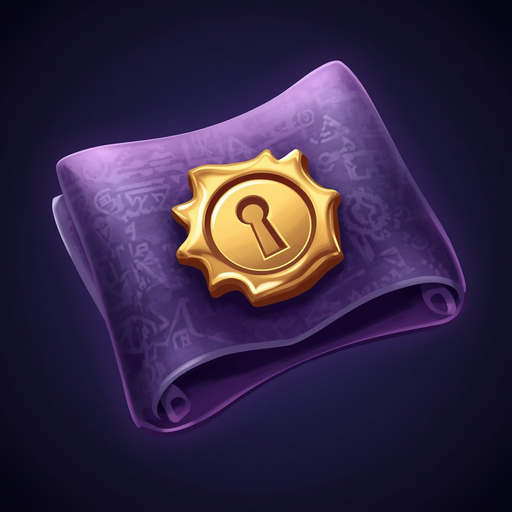
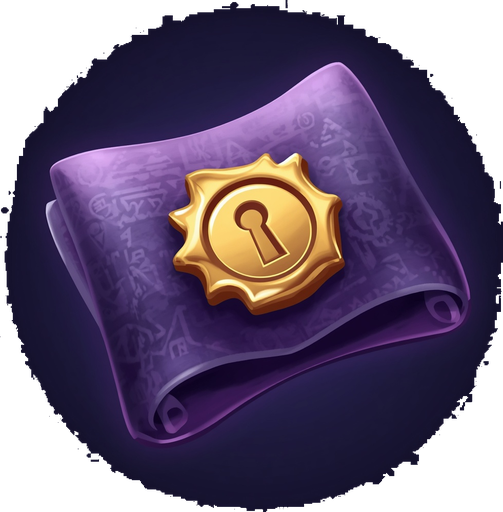
polish(nft): transparent art, rarity mapping

diff --git a/css/components/modals.css b/css/components/modals.css
@@ -317,7 +317,7 @@ html[data-device="phone"] #toasts{bottom:calc(88px + env(safe-area-inset-bottom)
 .relic-chip{
   display:inline-flex;align-items:center;gap:5px;height:30px;padding:0 10px;
   border-radius:var(--r-full);border:1px solid var(--line-2);background:var(--surface-2);
-  color:var(--tx2);font-size:12px;font-weight:600;font-variant-numeric:tabular-nums;
+  color:var(--tx-2);font-size:12px;font-weight:600;font-variant-numeric:tabular-nums;
 }
 .relic-chip:hover{background:var(--surface-3);color:var(--tx)}
 .relic-chip .rc-ic{width:16px;height:16px;display:block;filter:drop-shadow(0 1px 2px rgba(0,0,0,.4))}
@@ -325,9 +325,9 @@ html[data-device="phone"] #toasts{bottom:calc(88px + env(safe-area-inset-bottom)
 .relic-scroll{width:132px;height:auto;filter:drop-shadow(0 10px 24px rgba(0,0,0,.45));margin-bottom:2px}
 .relic-big{font-size:40px;font-weight:800;letter-spacing:-.03em;
   background:linear-gradient(135deg,#f3d27a,#e0a23c);-webkit-background-clip:text;background-clip:text;color:transparent}
-.relic-cap{font-size:12px;color:var(--tx3)}
+.relic-cap{font-size:12px;color:var(--tx-3)}
 .relic-history{display:grid;gap:6px;margin-top:12px}
-.relic-row{display:flex;justify-content:space-between;gap:10px;font-size:12.5px;color:var(--tx2);
+.relic-row{display:flex;justify-content:space-between;gap:10px;font-size:12.5px;color:var(--tx-2);
   border-top:1px solid var(--line);padding-top:6px}
 .relic-row b{color:var(--tx)}
 .relic-row .plus{color:var(--ok)}
@@ -456,15 +456,15 @@ html[data-device="phone"] .recover-bar .rb-btn{flex:1}
 /* Коллекция (NFT за Relics) */
 .nft-modal{max-width:720px}
 .nft-tabs{display:flex;gap:6px;margin-bottom:10px}
-.nft-tab{font:inherit;font-size:13px;color:var(--tx2);background:transparent;border:1px solid var(--line2);border-radius:10px;padding:7px 13px;cursor:pointer}
+.nft-tab{font:inherit;font-size:13px;color:var(--tx-2);background:transparent;border:1px solid var(--line-2);border-radius:10px;padding:7px 13px;cursor:pointer}
 .nft-tab.on{color:var(--tx);background:var(--surface-3);border-color:rgba(91,108,249,.45)}
-.nft-balance{display:flex;align-items:center;gap:6px;font-size:12.5px;color:var(--tx3);margin-bottom:12px}
+.nft-balance{display:flex;align-items:center;gap:6px;font-size:12.5px;color:var(--tx-3);margin-bottom:12px}
 .nft-balance img{width:16px;height:16px}
 .nft-grid{display:grid;grid-template-columns:repeat(auto-fill,minmax(150px,1fr));gap:10px}
 .nft-card{background:var(--surface-2);border:1px solid var(--line);border-radius:16px;padding:10px;display:grid;gap:6px;text-align:center}
 .nft-art{width:100%;height:118px;object-fit:contain;filter:drop-shadow(0 8px 18px rgba(0,0,0,.45))}
 .nft-name{font-size:12.5px;font-weight:600;line-height:1.3}
-.nft-sub{font-size:11px;color:var(--tx3)}
+.nft-sub{font-size:11px;color:var(--tx-3)}
 .nft-rarity{font-size:10px;font-weight:700;text-transform:uppercase;letter-spacing:.05em;padding:2px 7px;border-radius:99px;justify-self:center}
 .nft-rarity.common{color:#9fb0c9;background:rgba(159,176,201,.14)}
 .nft-rarity.rare{color:#7fb2ff;background:rgba(127,178,255,.15)}

diff --git a/js/ui/palette.js b/js/ui/palette.js
@@ -8,7 +8,7 @@ import { t } from '../i18n/i18n.js';
 import { THEMES, applyTheme, currentTheme } from './themes.js';
 import { isPinned, isMuted, togglePinned, toggleMuted } from './prefs.js';
 import { toast } from './toast.js';
-import { openNewChat, openGroupCreator, openSettings, openGlobalSearch } from './modals.js';
+import { openNewChat, openGroupCreator, openSettings, openGlobalSearch, openNft } from './modals.js';
 import { renderSidebar } from './sidebar.js';
 import { hideUser } from '../backend/blocks.js';
 import { lockNow, hasPin } from './pin.js';
@@ -101,6 +101,7 @@ function actionList(termRaw = '') {
         setTimeout(() => $('#storageField')?.scrollIntoView({ block: 'center', behavior: 'smooth' }), 120);
       },
     },
+    { id: 'nft', icon: 'gift', label: t('nft.title'), run: () => openNft() },
     {
       id: 'export',
       icon: 'dl',
@@ -462,9 +463,11 @@ export function initPalette() {
   }
   const searchOpen = $('#searchOpenPalette');
   if (searchOpen) {
-    searchOpen.title = t('palette.searchAll');
-    searchOpen.setAttribute('aria-label', t('palette.searchAll'));
+    searchOpen.title = t('palette.title');
+    searchOpen.setAttribute('aria-label', t('palette.title'));
   }
+  const dialog = $('.palette');
+  if (dialog) dialog.setAttribute('aria-label', t('palette.title'));
   document.addEventListener('click', (e) => {
     if (!e.target.closest('[data-open-palette]')) return;
     e.preventDefault();
@@ -502,9 +505,11 @@ export function initPalette() {
   document.addEventListener('relik:lang', () => {
     const so = $('#searchOpenPalette');
     if (so) {
-      so.title = t('palette.searchAll');
-      so.setAttribute('aria-label', t('palette.searchAll'));
+      so.title = t('palette.title');
+      so.setAttribute('aria-label', t('palette.title'));
     }
+    const dialog = $('.palette');
+    if (dialog) dialog.setAttribute('aria-label', t('palette.title'));
     if (!isOpen) return;
     const h = $('#paletteHint');
     if (h) h.innerHTML = `${icon('keyboard', 13)}<span>${esc(t('palette.footer'))}</span>`;

diff --git a/js/ui/modals.js b/js/ui/modals.js
@@ -71,7 +71,7 @@ export function initModals() {
       closeOv($('#groupOv')); closeOv($('#readOv'));
       closeOv($('#peopleOv')); closeOv($('#reqOv')); closeOv($('#gsOv'));
       closeOv($('#relicsOv')); closeOv($('#giftOv'));
-      closeOv($('#mediaOv')); closeOv($('#scheduleOv')); closeOv($('#fwdOv')); closeOv($('#circleOv'));
+      closeOv($('#mediaOv')); closeOv($('#scheduleOv')); closeOv($('#fwdOv'));
     }
   });
   document.addEventListener('keydown', (e) => {

diff --git a/js/i18n/ru.js b/js/i18n/ru.js
@@ -600,6 +600,7 @@ export default {
   'call.screenNoAudio': 'Системный звук не передаётся — включите «Поделиться звуком» при выборе экрана',
 
   /* Командная палитра */
+  'palette.title': 'Командная палитра',
   'palette.ph': 'Чат, действие или сообщение…',
   'palette.recent': 'Недавние чаты',
   'palette.chatsFound': 'Чаты',

diff --git a/js/i18n/en.js b/js/i18n/en.js
@@ -600,6 +600,7 @@ export default {
   'call.screenNoAudio': 'System audio was not shared — tick “Share audio” when picking a screen',
 
   /* Command palette */
+  'palette.title': 'Command palette',
   'palette.ph': 'Chat, action or message…',
   'palette.recent': 'Recent chats',
   'palette.chatsFound': 'Chats',

diff --git a/sw.js b/sw.js
@@ -1,5 +1,5 @@
 /* Relik — service worker: офлайн-оболочка PWA */
-const VER = 'relik-v1.13.0';
+const VER = 'relik-v1.13.1';
 const ASSETS = [
   './', './index.html', './legal.html', './welcome.html', './version.json', './manifest.json',
   './css/tokens.css', './css/base.css', './css/layout.css',

diff --git a/js/config.js b/js/config.js
@@ -2,7 +2,7 @@
 
 export const APP = {
   name: 'Relik',
-  version: '1.13.0',
+  version: '1.13.1',
   phase: 'E2E Encrypted Messenger',
 };
 

diff --git a/README.md b/README.md
@@ -3,9 +3,9 @@
 > Приватный мессенджер, которому можно доверять.
 > HTML + CSS Grid + Vanilla JS · E2E-шифрование · бесплатный бэкенд (Supabase)
 >
-> **v1.11.0:** пересылка одного сообщения сразу в несколько чатов (выбор галочками); галерея медиа чата; публичная страница welcome.html; ersion.json и проверка обновлений в desktop-приложении; группы целей пересылки подсвечиваются.
-> **v1.13.0:** командная палитра (Ctrl/Cmd+K): чаты, действия и поиск по сообщениям в одном окне; раздел «Хранилище» — занятое место, защита IndexedDB от очистки браузером и очистка медиа-кэша; плашка восстановления после ошибок вместо тихой консоли; офлайн-оболочка быстрее открывается, установка SW не ломается из-за одного файла.
+> **v1.13.0:** командная палитра (Ctrl/Cmd+K): чаты, действия и поиск по сообщениям в одном окне; раздел «Хранилище» — занятое место, защита IndexedDB от очистки браузером и очистка медиа-кэша; плашка восстановления после ошибок вместо тихой консоли; офлайн-оболочка быстрее открывается, установка SW не ломается из-за одного файла; коллекционные предметы за Relics (`supabase/nft.sql`).
 > **v1.12.1:** сквозной поиск по всей переписке, пересылка в несколько чатов, галерея медиа чата, защита от флуда.
+> **v1.11.0:** пересылка одного сообщения сразу в несколько чатов (выбор галочками); галерея медиа чата; публичная страница welcome.html; ersion.json и проверка обновлений в desktop-приложении; группы целей пересылки подсвечиваются.
 > **v1.10.0:** сквозной поиск по всей переписке (локальный индекс, кнопка в пустом фильтре сайдбара); защита от флуда (20 сообщений/мин на уровне Postgres); очистка старых событий и мёртвых push-подписок (`supabase/hardening.sql`); трей и проверка обновлений в desktop-приложении; документ `PUBLIC-READINESS.md` с чек-листом публичного запуска, бэкапами и планом аварий.
 > **v1.9.1:** Web Push: подписка устройства, service worker показывает уведомление и открывает чат по клику; сервис отправки — `scripts/push-service` на VPS.
 > **v1.9.0:** фундамент надёжности и модерации. Очередь исходящих с экспоненциальным бэкоффом. Телеметрия ошибок (`client_events`). Статус-страница `tools/status.html`. Блокировка пользователей. Жалоба на сообщение. Панель `admin.html` + приложение **Relik (Admin).exe**: жалобы, баны, роли, журнал, ошибки клиентов. Требуется `supabase/v2_features.sql`.
